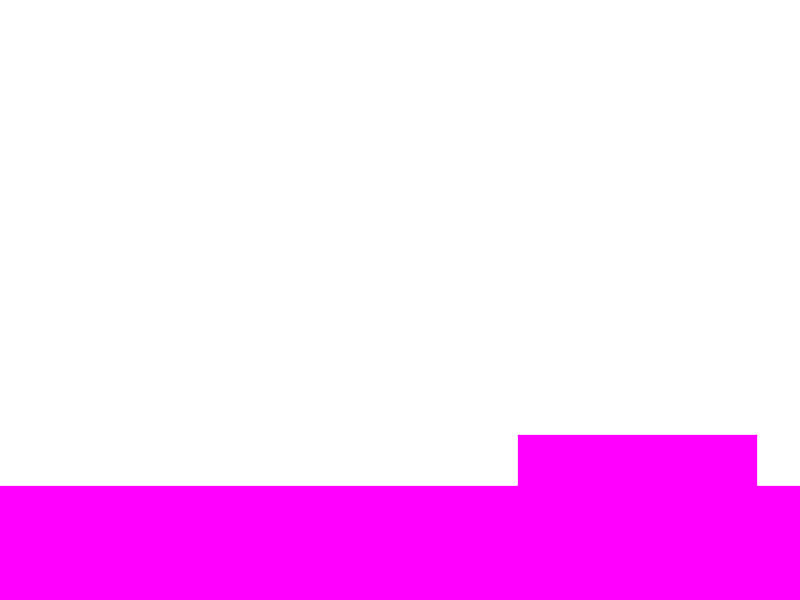
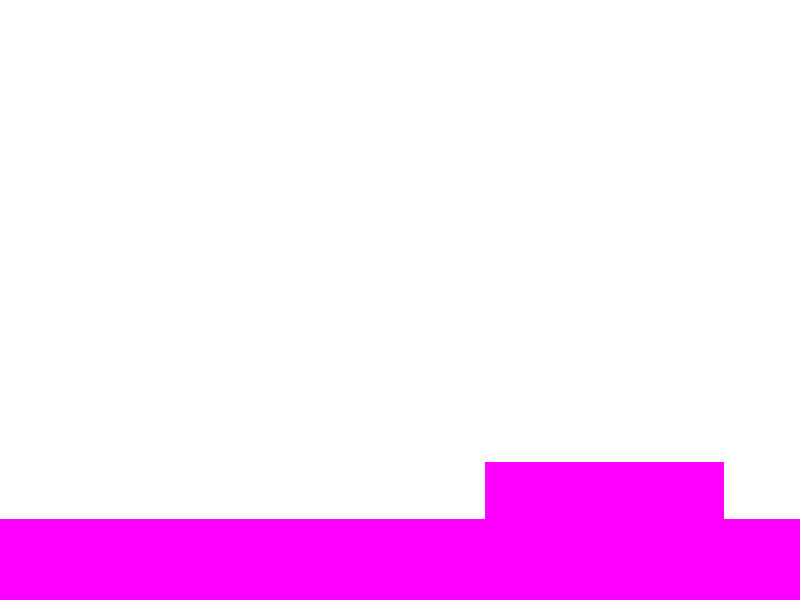
Jump somewhat working

Changed region(s): [[0.0, 0.72, 1.0, 0.87]]

diff --git a/Shanghai/src/damien/com/Map/Map.java b/Shanghai/src/damien/com/Map/Map.java
@@ -22,12 +22,58 @@ public class Map {
 	
 	public boolean collidingWithMap(Sprite s)
 	{
+		/* top left point */
 		int x1 = (int) s.x;
 		int y1 = (int) s.y;
+		/* bottom left point */
+		int x2 = (int) s.x;
+		int y2 = (int) (s.y + s.image.getHeight());
+		/* top right point */
+		int x3 = (int) (s.x + s.image.getWidth());
+		int y3 = (int) s.y;
+		/* bottom right point */
+		int x4 = (int) (s.x + s.image.getWidth());
+		int y4 = (int) (s.y + s.image.getHeight());
 		
-		System.out.println("color = " + map.getColor(x1,  y1));
+		/* Debugging line of code, not needed */
+		System.out.println("color = " + map.getColor(x1,  y1).getRed() +
+				"," + map.getColor(x1,  y1).getGreen() +
+				"," + map.getColor(x1,  y1).getBlue());
 		
 		if((map.getColor(x1, y1)).equals(new Color(255,0,255)))
+		{
+			return true;
+		}
+		if((map.getColor(x2, y2)).equals(new Color(255,0,255)))
+		{
+			return true;
+		}
+		if((map.getColor(x3, y3)).equals(new Color(255,0,255)))
+		{
+			return true;
+		}
+		if((map.getColor(x4, y4)).equals(new Color(255,0,255)))
+		{
+			return true;
+		}
+		
+		return false;
+	}
+	
+	public boolean collideLRMap(Sprite s)
+	{
+		/* right middle */
+		int x1 = (int) (s.x + s.image.getWidth());
+		int y1 = (int) (s.y + (s.image.getHeight()/2));
+		/* left middle */
+		int x2 = (int) (s.x);
+		int y2 = (int) (s.y + (s.image.getHeight()/2));
+		
+		if((map.getColor(x1, y1)).equals(new Color(255,0,255)))
+		{
+			return true;
+		}
+		if((map.getColor(x2, y2)).equals(new Color(255,0,255)))
 		{
 			return true;
 		}
@@ -36,3 +82,8 @@ public class Map {
 	}
 
 }
+
+
+
+
+

diff --git a/Shanghai/src/damien/com/States/Gameplay.java b/Shanghai/src/damien/com/States/Gameplay.java
@@ -18,7 +18,7 @@ public class Gameplay extends BasicGameState{
 	Sprite player;
 	Map map1;
 	
-	public static final float GRAVITY = 0.1f;
+	public static final float GRAVITY = 0.2f;
 	
 	public Gameplay(int id)
 	{
@@ -35,7 +35,7 @@ public class Gameplay extends BasicGameState{
 		player.speed = 0.2f;
 		player.alive = true;
 		
-		map1 = new Map(new Image("images/levelTest.jpg"));
+		map1 = new Map(new Image("images/levelTest.png"));
 		
 	}
 
@@ -55,16 +55,33 @@ public class Gameplay extends BasicGameState{
 		 */
 		if(!map1.collidingWithMap(player))
 		{
-			player.y+=GRAVITY;
+			player.y+=GRAVITY*delta;
+		}
+		
+		/* remember his location BEFORE he moves */
+		float oldx = player.x;
+		float oldy = player.y;
+		
+		if(input.isKeyDown(Input.KEY_W))
+		{
+			player.y-=0.4f*delta;
 		}
 		
 		if(input.isKeyDown(Input.KEY_A) || input.isKeyDown(Input.KEY_LEFT))
 		{
 			player.moveLeft(delta);
+			if(map1.collideLRMap(player))
+			{
+				player.x = oldx;
+			}
 		}
 		if(input.isKeyDown(Input.KEY_D) || input.isKeyDown(Input.KEY_RIGHT))
 		{
 			player.moveRight(delta);
+			if(map1.collideLRMap(player))
+			{
+				player.x = oldx;
+			}
 		}
 	}
 	

diff --git a/Shanghai/src/damien/com/Sprites/Sprite.java b/Shanghai/src/damien/com/Sprites/Sprite.java
@@ -13,7 +13,7 @@ public class Sprite {
 	public float y;
 	public float speed;
 	float backSpeed;
-	Image image;
+	public Image image;
 	float angle;
 	float vx, vy; //velocity in x and y directions
 	public boolean alive;
